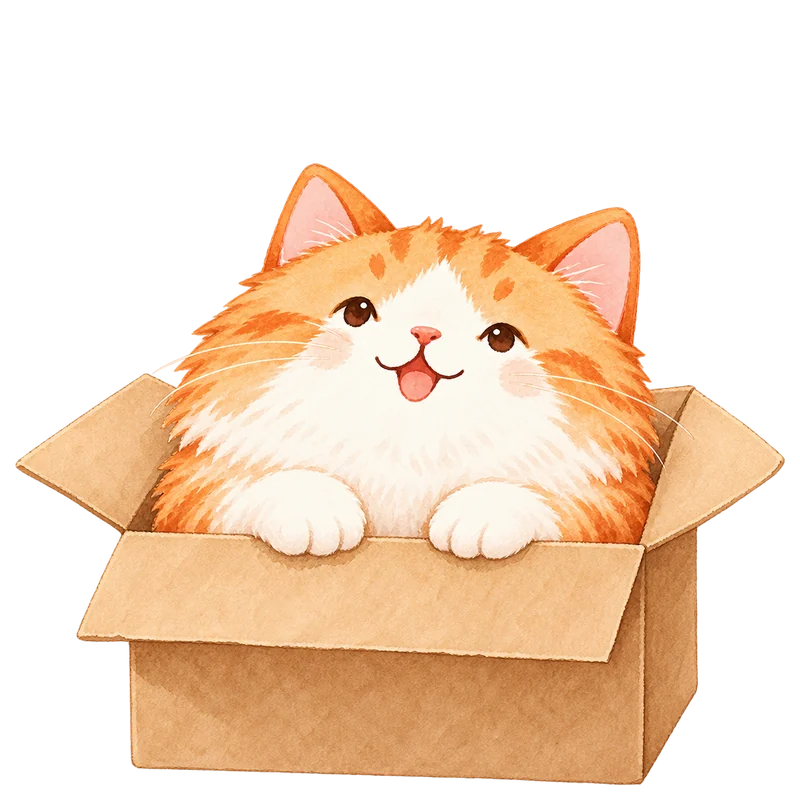
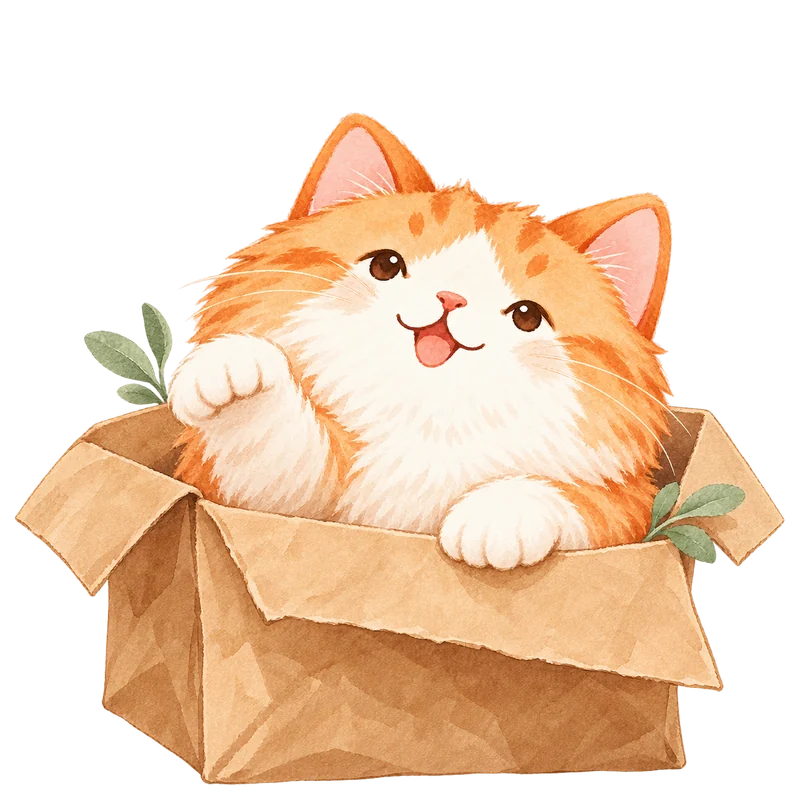
橘白新畫風＋首頁橫幅、左下角兩張橫的插畫（待確認）
Claude-Session: https://claude.ai/code/session_015JXCvpu3pe6PVc13iFxoZ4

diff --git a/index.html b/index.html
@@ -44,7 +44,7 @@
 <nav class="appnav" id="appNav" aria-label="主要頁面">
   <a class="appnav-brand" href="#"><img class="brand-logo" src="icon.svg" alt="">記帳本</a>
   <a href="#" data-nav="#"><svg viewBox="0 0 24 24" aria-hidden="true"><path d="M5 4.5A1.5 1.5 0 0 1 6.5 3H19v15H6.5A1.5 1.5 0 0 0 5 19.5z"/><path d="M5 19.5A1.5 1.5 0 0 0 6.5 21H19v-3"/><path d="M9 7.5h6M9 11h4"/></svg><span>帳本</span></a><a href="#repay" data-nav="#repay"><svg viewBox="0 0 24 24" aria-hidden="true"><rect x="3" y="5.5" width="18" height="13" rx="2.5"/><path d="M3 10h18M7 15h3"/></svg><span>還款與分期</span></a><a href="#invest" data-nav="#invest"><svg viewBox="0 0 24 24" aria-hidden="true"><path d="M4 19h16"/><path d="M5 15l4.5-4.5 3 3L19 7"/><path d="M15 7h4v4"/></svg><span>資產</span></a><a href="#lists" data-nav="#lists"><svg viewBox="0 0 24 24" aria-hidden="true"><path d="M9 6h11M9 12h11M9 18h11"/><path d="M4 6l1 1 1.8-2M4 12l1 1 1.8-2M4 18l1 1 1.8-2"/></svg><span>清單</span></a><a href="#cal" data-nav="#cal"><svg viewBox="0 0 24 24" aria-hidden="true"><rect x="3.5" y="5" width="17" height="15" rx="2.5"/><path d="M3.5 10h17M8 3v4M16 3v4"/></svg><span>行事曆</span></a><a href="#settings" data-nav="#settings"><svg viewBox="0 0 24 24" aria-hidden="true"><circle cx="12" cy="12" r="3"/><path d="M12 2.8v2.4M12 18.8v2.4M2.8 12h2.4M18.8 12h2.4M5.5 5.5l1.7 1.7M16.8 16.8l1.7 1.7M5.5 18.5l1.7-1.7M16.8 7.2l1.7-1.7"/></svg><span>設定</span></a>
-  <div class="nav-cheer" aria-hidden="true"><img class="nav-cheer-img" data-cat-scene="cheer" alt=""><p class="nav-cheer-text"><span id="navCheerText"></span><span class="nav-cheer-name" id="navCheerName"></span></p></div>
+  <div class="nav-cheer" aria-hidden="true"><img class="nav-cheer-img" data-cat-scene="nav" alt=""><p class="nav-cheer-text"><span id="navCheerText"></span><span class="nav-cheer-name" id="navCheerName"></span></p></div>
 </nav>
 
 <!-- 尚未設定 Firebase -->
@@ -108,7 +108,7 @@
     <div class="banner-warn" id="bkReminder" hidden><span id="bkReminderText"></span><a class="btn" href="#settings">去備份</a></div>
     <section class="cat-hero" id="homeHero" hidden>
       <div class="cat-hero-text"><p class="cat-hero-name" id="homeHiName" hidden></p><p class="cat-hero-hi">今天想記錄哪一本帳本？</p></div>
-      <img class="cat-hero-img" data-cat-scene="happy" alt="">
+      <img class="cat-hero-img" data-cat-scene="hero" alt="">
     </section>
     <div class="home-head">
       <h2 class="h2">我的帳本</h2>

diff --git a/app.js b/app.js
@@ -50,8 +50,8 @@ function catImg(key, cls){
   return i;
 }
 /* 貓咪圖鑑：圖片一律是 cats/{品種}/{情境}.webp，cats/manifest.json 記每種貓有哪些圖。
-   情境：face 頭像、happy 開心、sleep 睡覺、content 滿足、box 調皮、money 記帳中、cheer 加油 */
-const CAT_SCENES = ["face","happy","sleep","content","box","money","cheer"];
+   情境：face 頭像、happy 開心、sleep 睡覺、content 滿足、box 調皮、money 記帳中、cheer 加油、hero 首頁橫幅、nav 電腦版左下角（後兩張是橫的） */
+const CAT_SCENES = ["face","happy","sleep","content","box","money","cheer","hero","nav"];
 const MY_CAT_DEFAULT = "orangewhite";
 let CAT_MANIFEST = null;
 fetch("cats/manifest.json").then(r=>r.ok?r.json():null).then(m=>{ if(m && m.breeds){ CAT_MANIFEST=m; paintMyCat(true); } }).catch(()=>{});

diff --git a/style.css b/style.css
@@ -698,3 +698,8 @@ body.nav-on .page > .tabs{display:none}
   body.nav-on.bar-on .appnav{top:64px;padding-top:14px}
   body.nav-on.bar-on .appnav-brand{display:none!important}
 }
+
+/* 橫的插畫（hero、nav）：高度固定、寬度跟著圖；缺圖退回方形的開心也能放 */
+.cat-hero{padding:10px 8px 6px 20px;min-height:150px}
+.cat-hero-img{width:auto;max-width:55%;height:clamp(120px,30vw,190px)}
+@media (min-width:821px) and (min-height:700px){ .nav-cheer-img{width:auto;max-width:190px;height:auto;max-height:132px} }
